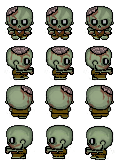
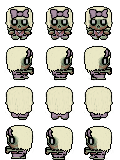
Collide between victims, correlation between victim and zombie assets

diff --git a/script.js b/script.js
@@ -39,11 +39,12 @@ FastFoodGame.prototype = {
         this.load.spritesheet('zombie4', '/assets/Zombie4.png', 40, 40, 12);
         this.load.spritesheet('zombie5', '/assets/Zombie5.png', 40, 40, 12);
         this.load.spritesheet('zombie6', '/assets/Zombie6.png', 40, 40, 12);
-        this.load.spritesheet('hero', '/assets/Victim1.png', 40, 40, 12);
+        this.load.spritesheet('victim1', '/assets/Victim1.png', 40, 40, 12);
         this.load.spritesheet('victim2', '/assets/Victim2.png', 40, 40, 12);
         this.load.spritesheet('victim3', '/assets/Victim3.png', 40, 40, 12);
         this.load.spritesheet('victim4', '/assets/Victim4.png', 40, 40, 12);
         this.load.spritesheet('victim5', '/assets/Victim5.png', 40, 40, 12);
+        this.load.spritesheet('victim6', '/assets/Victim6.png', 40, 40, 12);
     },
 
     create : function () {
@@ -83,10 +84,11 @@ FastFoodGame.prototype = {
             new Victim(this, 'victim2', {x: 420, y: 520}),
             new Victim(this, 'victim3', {x: 840, y: 220}),
             new Victim(this, 'victim4', {x: 200, y: 320}),
-            new Victim(this, 'victim5', {x: 620, y: 520})
+            new Victim(this, 'victim5', {x: 620, y: 520}),
+            new Victim(this, 'victim6', {x: 720, y: 580})
         );
 
-        this.hero = new Hero(this, 'hero', {x: 100, y: 120});
+        this.hero = new Hero(this, 'victim1', {x: 100, y: 120});
         this.camera.follow(this.hero.sprite);
 
         var style = { font: "bold 32px Arial", fill: "#ff0044", boundsAlignH: "center", boundsAlignV: "middle" };
@@ -110,7 +112,7 @@ FastFoodGame.prototype = {
         this.scoreText.y = this.camera.y;
         this.scoreText.setText('Score:' + this.hero.countMushrooms);
 
-        this.hero.update(this.zombies, this.mushrooms);
+        this.hero.update(this.zombies, this.victims, this.mushrooms);
         this.hero.move(this.cursors);
 
         for (var i=0; i<this.zombies.length; i++) {
@@ -119,39 +121,47 @@ FastFoodGame.prototype = {
         }
 
         for (var i=0; i<this.victims.length; i++) {
-
-            if (this.victims[i] == null) {
-                continue;
-            }
-
             if (this.victims[i].isDead == false) {
-                this.victims[i].update(this.zombies);
+                this.victims[i].update(this.zombies, this.victims);
                 this.victims[i].move(this.hero);
 
             } else {
-                newZombie = new Zombie(this, 'zombie1', {x: this.victims[i].sprite.x, y: this.victims[i].sprite.y});
-                newZombie.state = newZombie.HUNT;
-                this.zombies.push(newZombie);
-                this.displayMessage('Eaten, one more Zombie! Run! Run!', 2000);
-                this.victims[i].sprite.kill();
-                this.victims[i] = null;
-                this.shakeCamera(20);
+                this.transformVictimToZombie(this.victims[i]);
+                this.victims.splice(i, 1);
             }
         }
 
         if (this.hero.isDead) {
-
-            this.zombies.push(new Zombie(this, 'zombie3', {x: this.hero.sprite.x, y: this.hero.sprite.y}));
-            this.displayMessage('You died! You\'re now one of us ...', 2000);
-            this.hero.sprite.kill();
-            this.game.physics.arcade.isPaused = true;
-            this.shakeCamera(20);
+            this.transformHeroToZombie();
         }
 
         this.updateCamera();
     },
 
     render : function () {
+    },
+
+    transformVictimToZombie : function (victim) {
+        var zombieSpriteKey = 'zombie' + victim.sprite.key.slice(-1);
+        var newZombie = new Zombie(this, zombieSpriteKey, {x: victim.sprite.x, y: victim.sprite.y});
+        newZombie.state = newZombie.HUNT;
+        this.zombies.push(newZombie);
+        this.displayMessage('Eaten, one more Zombie! Run! Run!', 2000);
+        victim.sprite.kill();
+        this.shakeCamera(20);
+    },
+
+    transformHeroToZombie : function () {
+        var zombieSpriteKey = 'zombie' + this.hero.sprite.key.slice(-1);
+        var newZombie = new Zombie(this, zombieSpriteKey, {x: this.hero.sprite.x, y: this.hero.sprite.y});
+        newZombie.state = newZombie.HUNT;
+        this.zombies.push(newZombie);
+        this.displayMessage('You died! You\'re now one of us ...', 2000);
+        this.hero.sprite.kill();
+        this.shakeCamera(20);
+
+        this.game.physics.arcade.isPaused = true;
+
     },
 
     togglePause : function () {

diff --git a/Hero.js b/Hero.js
@@ -37,14 +37,21 @@ Hero.prototype.move = function(cursors) {
     }
 };
 
-Hero.prototype.update = function(zombies, mushrooms) {
+Hero.prototype.update = function(zombies, victims, mushrooms) {
     this.game.physics.arcade.collide(this.sprite, mushrooms, this.eat, null, this);
     this.game.physics.arcade.collide(this.sprite, this.game.layer);
+
     var zombieSprites = [];
     for (var i=0; i<zombies.length; i++) {
         zombieSprites.push(zombies[i].sprite);
     }
     this.game.physics.arcade.collide(this.sprite, zombieSprites, this.die, null, this);
+
+    var victimSprites = [];
+    for (var i=0; i<victims.length; i++) {
+        victimSprites.push(victims[i].sprite);
+    }
+    this.game.physics.arcade.collide(this.sprite, victimSprites);
 };
 
 Hero.prototype.die = function (player) {

diff --git a/Victim.js b/Victim.js
@@ -57,13 +57,19 @@ Victim.prototype.move = function(hero) {
     }
 };
 
-Victim.prototype.update = function(zombies) {
+Victim.prototype.update = function(zombies, victims) {
     this.game.physics.arcade.collide(this.sprite, this.game.layer);
     var zombieSprites = [];
     for (var i=0; i<zombies.length; i++) {
         zombieSprites.push(zombies[i].sprite);
     }
     this.game.physics.arcade.collide(this.sprite, zombieSprites, this.die, null, this);
+
+    var victimSprites = [];
+    for (var i=0; i<victims.length; i++) {
+        victimSprites.push(victims[i].sprite);
+    }
+    this.game.physics.arcade.collide(this.sprite, victimSprites);
 
 
     /*
